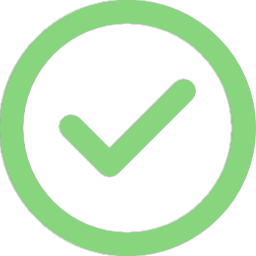
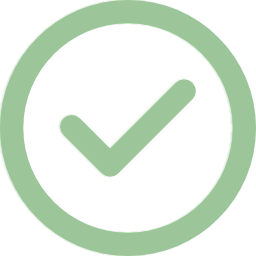
canvi estils

diff --git a/src/resources/styles/theme.ts b/src/resources/styles/theme.ts
@@ -5,9 +5,10 @@ export const colors = {
     },
 
     background: {
-        primary: '#87d67e',
+        primary: '#9cc599',
     },
     //buttonAction: '#7ebed6',
-    buttonAction: '#ca85e6',
+    //buttonAction: '#ca85e6',
+    buttonAction: '#c299c3',
     graySecundary: '#adadad',
 };
